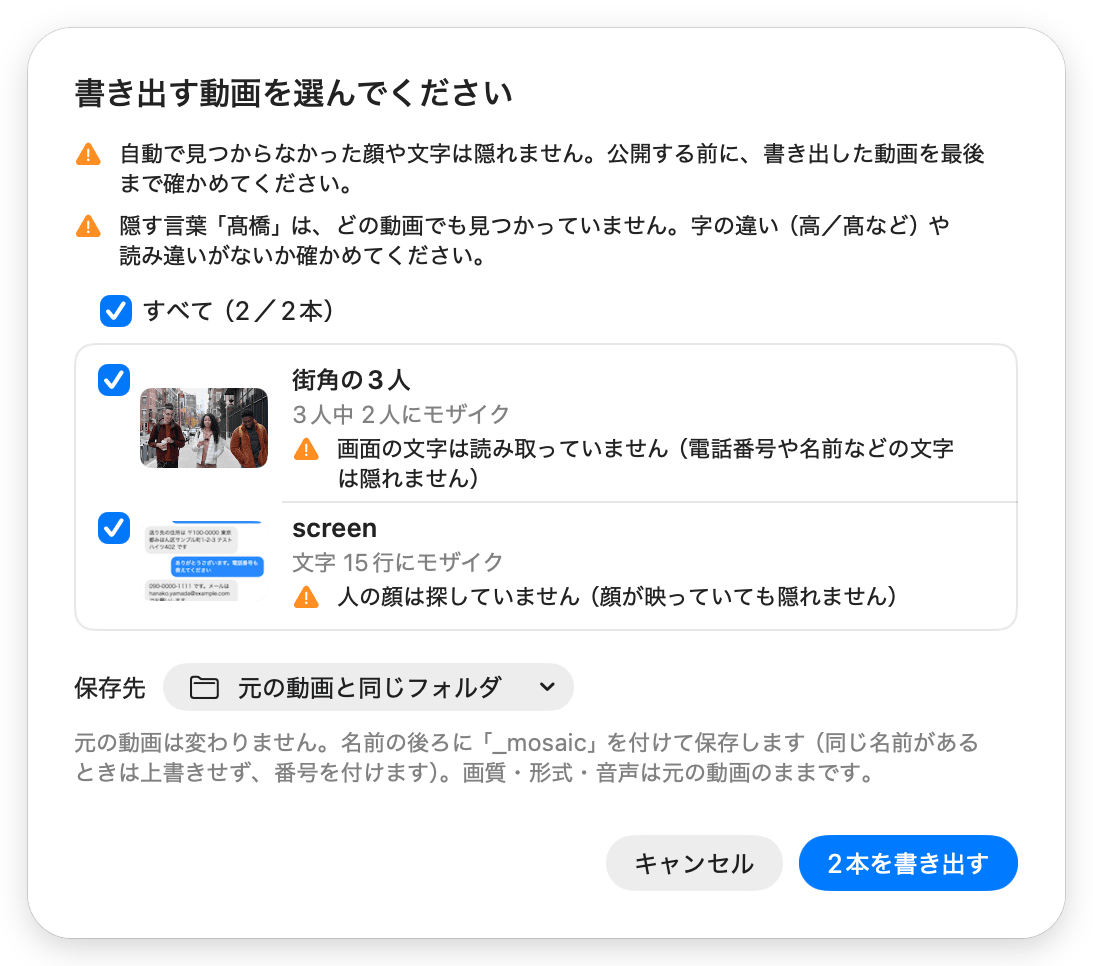
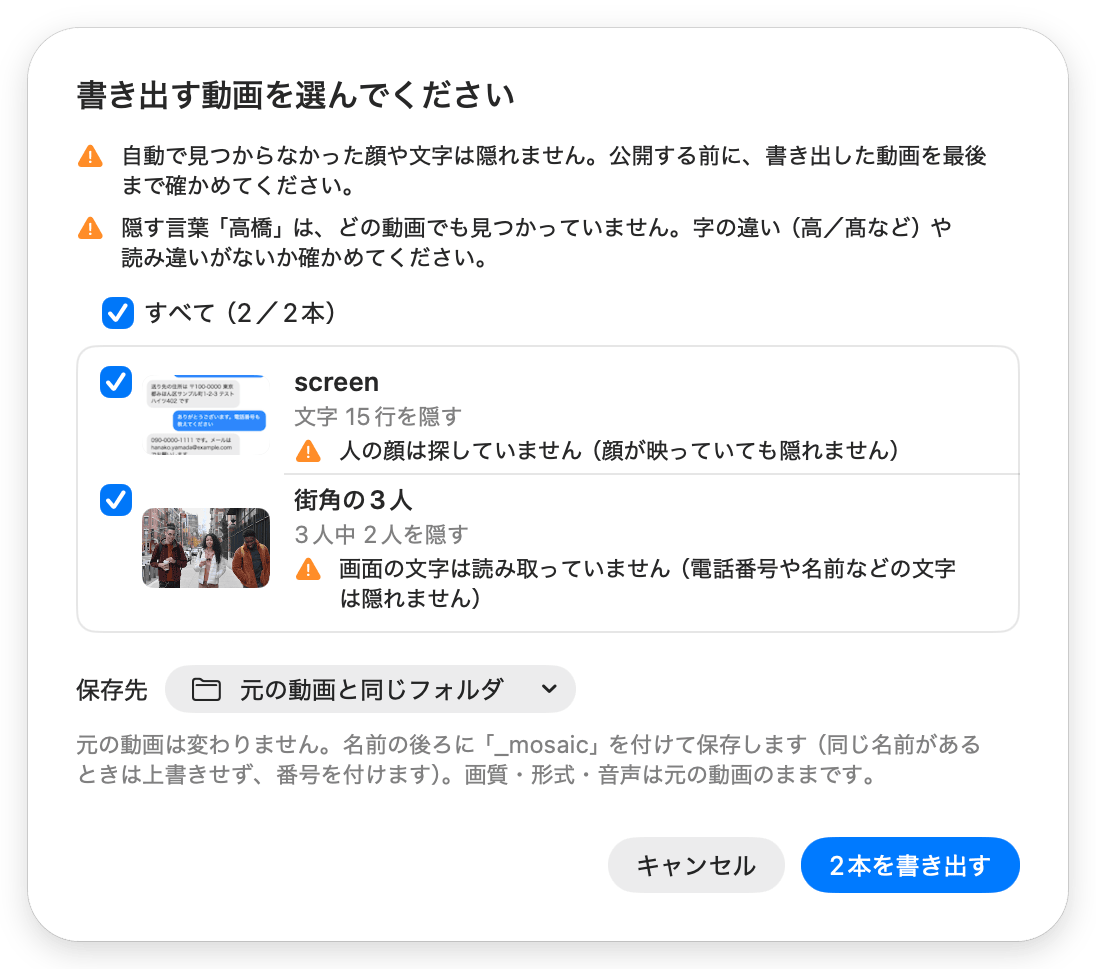
docs(release): v1.2 の準備として README・画面写真・リリースノートを最新にする
README とリリースチェックのレビューで、画面写真が古い表示（「モザイクをかける人」「3人中 2人にモザイク」）のままで、版番号も 1.1 のままだと指摘されたため。

- 版番号を 1.2（CFBundleVersion 3）に上げる
- v1.2 のリリースノートを追加する
- README の app.jpg・export.png・text.png を今の画面で撮り直し、説明文を合わせる（スタンプの例、隠す言葉「高橋」）
- 「画面の文字」の欄とツールチップの表記を「隠す」にそろえ、USAGE・LIMITATIONS・README の該当箇所も合わせる

diff --git a/Sources/WipeMosaicApp/TextInspectorView.swift b/Sources/WipeMosaicApp/TextInspectorView.swift
@@ -54,7 +54,7 @@ struct TextInspectorView: View {
             if let text = video.text, video.textState == .done {
                 if video.textMaskPending {
                     Label {
-                        Text("モザイクを作り直しています…")
+                        Text("隠す範囲を作り直しています…")
                     } icon: {
                         ProgressView().controlSize(.small)
                     }
@@ -94,7 +94,7 @@ struct TextInspectorView: View {
         Section {
             Text(video.textAll
                  ? "この動画は、読み取れた文字をすべて隠しています（下の「この動画だけ」）。"
-                 : "見つかった部分だけにモザイクをかけ、行のほかの文字は残します。外した種類は、ほかの動画でも隠しません。")
+                 : "見つかった部分だけを隠し、行のほかの文字は残します。外した種類は、ほかの動画でも隠しません。")
                 .font(.callout)
                 .foregroundStyle(.secondary)
                 .fixedSize(horizontal: false, vertical: true)
@@ -340,7 +340,7 @@ private struct TextLineRow: View {
                 .toggleStyle(.checkbox)
                 .labelsHidden()
                 .disabled(video.textAll)
-                .help(whole ? "押すと、行全体のモザイクを外します" : "押すと、行全体にモザイクをかけます")
+                .help(whole ? "押すと、行全体を隠すのをやめます" : "押すと、行全体を隠します")
             Button {
                 model.seek(to: text.times[entry.firstFrame])
             } label: {
@@ -363,7 +363,7 @@ private struct TextLineRow: View {
             if whole || partly {
                 Image(systemName: "eye.slash")
                     .foregroundStyle(Color.accentColor)
-                    .help(whole ? "行全体にモザイク" : "一部にモザイク")
+                    .help(whole ? "行全体を隠しています" : "一部を隠しています")
             }
         }
         .padding(.vertical, 2)

diff --git a/Sources/WipeMosaicApp/ContentView.swift b/Sources/WipeMosaicApp/ContentView.swift
@@ -117,7 +117,7 @@ struct ContentView: View {
                     }
                 }
                 .pickerStyle(.segmented)
-                .help("モザイクなし（元の動画）／モザイクあり（いま選んでいるものに、書き出しと同じモザイク）／書き出し結果（書き出したファイル）。⌘1〜⌘3")
+                .help("モザイクなし（元の動画）／モザイクあり（いま選んでいるものを、書き出しと同じように隠した表示）／書き出し結果（書き出したファイル）。⌘1〜⌘3")
             }
         }
         ToolbarSpacer(.flexible)

diff --git a/docs/USAGE.md b/docs/USAGE.md
@@ -4,7 +4,7 @@
 
 ## 操作
 
-1. **動画を追加**：サイドバー上の「＋」（⌘O、何本でもまとめて選べる）、ウインドウか Dock のアイコンへドロップ、ファイル ▸ 最近使った項目を開く、または Finder の「このアプリケーションで開く」（複数可）。動画がないときは、3 つの手順（追加 → 何を隠すか選ぶ → 確かめて書き出す）と「動画を追加…」ボタン、「処理はすべてこのMacの中で行います」の表示が出る。写真（JPEG・HEIC・PNG など）を入れたときは動画として扱わず、顔写真は設定（⌘,）から登録するよう案内する。追加すると「何を隠しますか？」と聞かれる。「人の顔」「画面の文字」「両方」から選ぶと、まとめて追加した動画すべてに使い、選んだものだけを探し始める（Return キーで前回と同じものを選ぶ。「追加しない」で取りやめ。選ぶまで右の欄には「隠すものを選んでください」とだけ出る）。顔は追加した順に 1 本ずつ探す（表示中の動画を優先）。「画面の文字」だけを選んだ動画は顔を探さず、右の一覧も「画面の文字」で開く。あとから「人の顔」の「顔を探す」で顔も探せる。「両方」では顔と文字を同時に探す。一覧の状態は「順番待ち／顔を探しています n%／画面の文字を読み取っています n%／n人中m人・文字 n行を隠す／書き出し済み／開けません」
+1. **動画を追加**：サイドバー上の「＋」（⌘O、何本でもまとめて選べる）、ウインドウか Dock のアイコンへドロップ、ファイル ▸ 最近使った項目を開く、または Finder の「このアプリケーションで開く」（複数可）。動画がないときは、3 つの手順（追加 → 何を隠すか選ぶ → 確かめて書き出す）と「動画を追加…」ボタン、「処理はすべてこのMacの中で行います」の表示が出る。写真（JPEG・HEIC・PNG など）を入れたときは動画として扱わず、顔写真は設定（⌘,）から登録するよう案内する。追加すると「何を隠しますか？」と聞かれる。「人の顔」「画面の文字」「両方」から選ぶと、まとめて追加した動画すべてに使い、選んだものだけを探し始める（Return キーで前回と同じものを選ぶ。「追加しない」で取りやめ。選ぶまで右の欄には「隠すものを選んでください」とだけ出る）。顔は追加した順に 1 本ずつ探す（表示中の動画を優先）。「画面の文字」だけを選んだ動画は顔を探さず、右の一覧も「画面の文字」で開く。あとから「人の顔」の「顔を探す」で顔も探せる。「両方」では顔と文字を同時に探す。一覧の状態は「順番待ち／顔を探しています n%／文字を読み取っています n%／n人中m人・文字 n行を隠す／書き出し済み／開けません」
 2. **隠す人**（右の一覧）：顔を押すと（チェックボックスでも、動画の中の顔でも）その人の顔を隠し、もう一度押すと外れる。名前のあたりを押すと、その人が映る場面を表示する。行の右の ⏭ で、その人が映る次の場面へ進む
    - 選んだ人の行の「隠し方」メニュー：「基本の隠し方（モザイク／ぼかし）」か、スタンプ（顔に重ねる画像）を選ぶ。「画像を選んでスタンプにする…」で PNG・JPEG・HEIC などを選ぶと、その人の顔に重ね、スタンプの一覧に加わる。顔の写真なら写真の顔を動画の顔に合わせ、写真が大きければ顔のまわりだけを使う。同じ人かもしれない人にも同じスタンプが付く。顔を隠しきれる画像なら、検出できた場面ではスタンプの下にモザイクをかけないので、髪型や頭の輪郭はスタンプの周りから見える。顔を見失って位置を推し量っている場面（前後も続ける時間など）と、透明や半透明の部分から顔が透ける・いまの大きさでは顔がはみ出す画像では、スタンプの下にもモザイク（ぼかし）をかける（後者は行と書き出しのシートに、スタンプだけで隠す直し方が出る）。いらなくなったスタンプは、同じメニューの「保存したスタンプを削除」から消せる（確認が出る。使っていた人は基本の隠し方に戻る。設定の「スタンプ」からも消せる）
    - 「全員（m／n人）」で全員をまとめて切り替える（一部だけのときは「−」）。「人物」メニューの「全員にモザイクをかける」（⇧⌘A）・「全員のモザイクを外す」も同じ。通行人が多い動画は、全員を選んでから残したい人だけ外すと早い
@@ -13,9 +13,9 @@
    - 間違えたら ⌘Z で取り消せる（⇧⌘Z でやり直し）
 3. **動画と再生バー**：「モザイクあり」表示では、書き出しと同じモザイクのまま再生できる。再生バーは常に表示され、コマ送りと、選んだ人が映る区間の線（モザイクありはアクセント色）が出る。一時停止中は顔に枠が出る（アクセント色の実線＝モザイクあり、白の点線＝なし）。「画面の文字」では、一時停止中に隠す範囲がオレンジの点線で出る。顔の枠と文字の枠は、右上の「枠を隠す」か ⌘B でまとめて隠せる。表示は「モザイクなし／モザイクあり／書き出し結果」（⌘1〜⌘3）
 4. **隠し方の調整**（一覧の下、開閉できる。すべての動画に共通）：基本の隠し方（モザイク／ぼかし。顔と画面の文字の両方に使う）、モザイクの粗さ・ぼかしの強さ（既定はおまかせ＝長辺÷60。「おまかせ」を外すと 8〜96px で指定。ぼかしも同じ大きさでモザイクにしてからぼかすので、モザイクより読み取りやすくはならない）、スタンプの大きさ（スタンプを使う人がいるときだけ。既定 120%、80〜200%）、顔の前後も続ける時間（既定 1 秒、0〜3 秒）、モザイク（ぼかし）の広さ（45%）。動かすとすぐ「モザイクあり」の表示へ反映される。「画面の文字」の一覧にも「隠し方（すべての動画に共通）」として同じ基本の隠し方と粗さ・強さが出る
-5. **書き出す**：ツールバーの「書き出す…」か ⌘E。本数にかかわらず同じシートが開き、書き出す動画（まだ書き出していない動画にチェック。2 本以上なら「すべて」で一括）と保存先（元の動画と同じフォルダ／ほかのフォルダ）を確かめてから書き出す。名前は「元の名前_mosaic」で、同じ名前があれば上書きせず番号を付ける。顔や文字をまだ探している動画は、終わるまで書き出せない（「両方」を選んだ動画で、片方だけが入った動画にならないように）。シートの上には「自動で見つからなかった顔や文字は隠れません。公開する前に、書き出した動画を最後まで確かめてください。」と出る。動画ごとに、顔が見つかったのに誰も選んでいない（「顔がN人見つかりましたが、誰も選んでいません（顔は隠れません）」）、「自動で隠すもの」で外した種類がある、探すのを中止した・失敗した、、スタンプの画像から顔が透ける・はみ出す（そのときはスタンプの下にもモザイクをかけて書き出す）のような注意が出る。顔か文字の片方だけを選んだ動画は、もう片方について「人の顔は探していません（顔が映っていても隠れません）」のような注意を出す。「隠す言葉」に、どの動画でも見つかっていない言葉があるときも注意が出る。選んでいない似た人がいる動画には注意と「確かめる」（シートを閉じてその動画へ移る）が出る。複数は 1 本ずつ順に書き出し、進捗はサイドバーと一覧に出る。中止すると途中のファイルは消す
+5. **書き出す**：ツールバーの「書き出す…」か ⌘E。本数にかかわらず同じシートが開き、書き出す動画（まだ書き出していない動画にチェック。2 本以上なら「すべて」で一括）と保存先（元の動画と同じフォルダ／ほかのフォルダ）を確かめてから書き出す。名前は「元の名前_mosaic」で、同じ名前があれば上書きせず番号を付ける。顔や文字をまだ探している動画は、終わるまで書き出せない（「両方」を選んだ動画で、片方だけが入った動画にならないように）。シートの上には「自動で見つからなかった顔や文字は隠れません。公開する前に、書き出した動画を最後まで確かめてください。」と出る。動画ごとに、顔が見つかったのに誰も選んでいない（「顔がN人見つかりましたが、誰も選んでいません（顔は隠れません）」）、「自動で隠すもの」で外した種類がある、探すのを中止した・失敗した、スタンプの画像から顔が透ける・はみ出す（そのときはスタンプの下にもモザイクをかけて書き出す）のような注意が出る。顔か文字の片方だけを選んだ動画は、もう片方について「人の顔は探していません（顔が映っていても隠れません）」のような注意を出す。「隠す言葉」に、どの動画でも見つかっていない言葉があるときも注意が出る。選んでいない似た人がいる動画には注意と「確かめる」（シートを閉じてその動画へ移る）が出る。複数は 1 本ずつ順に書き出し、進捗はサイドバーと一覧に出る。中止すると途中のファイルは消す
 6. **結果**：一覧の上に「書き出しました」とファイル名、「再生して確かめる」「Finderで表示」、前後より隠す顔の数が減る「確かめてほしい場面」が出る。書き出した後に人の選択や隠し方（スタンプ・時間・広さ・粗さ・ぼかし・スタンプの大きさ）を変えると「書き出し済み」が外れ、もう一度書き出すよう表示される
-7. **画面の文字**（右の一覧の上で「画面の文字」に切り替える）：iPhone などの画面録画や、画面をカメラで撮った動画に映る文字を隠す。「画面の文字」か「両方」を選んだ動画は、追加すると読み取りを始める（画面が止まっている間は読み取りを省くので、動きの多い動画ほど時間がかかる）。「人の顔」だけを選んだ動画は読み取らず、「画面の文字」に切り替えたときの「この動画の画面の文字を読み取る」で読み取る。設定を変えてモザイクを作り直している間は「モザイクを作り直しています…」と出る。顔のモザイクと一緒に使え、書き出しには両方が入る
+7. **画面の文字**（右の一覧の上で「画面の文字」に切り替える）：iPhone などの画面録画や、画面をカメラで撮った動画に映る文字を隠す。「画面の文字」か「両方」を選んだ動画は、追加すると読み取りを始める（画面が止まっている間は読み取りを省くので、動きの多い動画ほど時間がかかる）。「人の顔」だけを選んだ動画は読み取らず、「画面の文字」に切り替えたときの「この動画の画面の文字を読み取る」で読み取る。設定を変えて隠す範囲を作り直している間は「隠す範囲を作り直しています…」と出る。顔のモザイクと一緒に使え、書き出しには両方が入る
    - **この動画だけ** ▸ **読み取れた文字をすべて隠す**：スマホやパソコンの画面をカメラで撮った動画向け。読み取れた行をすべて隠す。読み取れない瞬間（ブレ・反射・指）も、同じ場所に文字がまた読めれば 6 秒まではモザイクを続ける。動画に入れた字幕や服・看板の文字も隠れる
    - **自動で隠すもの**（すべての動画に共通）：電話番号・カード番号などの数字（6桁以上。A-123456 のような英字付きも）、メールアドレス、URL、住所・郵便番号、人の名前（よくある名字に、名前（漢字・カタカナ・ひらがな）や「さん・様・くん・ちゃん・氏・先生」「です」が続く形と、名字だけの行。一覧にない名字は、漢字 2〜6 文字（とその後の名前）に「さん・様・くん・ちゃん・先生・氏」や決まった肩書き・呼び方（部長・課長・社長・先輩・監督・ママなど）が続く形。森・林など 1 文字の名字は、「さん」や肩書き・空白が続くときか、行が名前だけ（「林健一」）のとき。名前を残さないよう、社名や「患者さん」「山田太郎部長」の「部」、「金曜日」だけの行のような言葉も隠れることがある）。種類ごとに、この動画で見つかった行数が右に出る。説明の続きは、項目にポインタを重ねると出る。外した種類はほかの動画でも隠さない。見つかった部分だけを隠し、行のほかの文字は残す。住所は見つかった所から行の終わりまでと、すぐ下に続く行（建物名・部屋番号）も隠す。途中で折り返したメールアドレス・URL・電話番号などの数字（「sato.ichi」／「ro@example.jp」、「example」／「.com/yamada」、「080-0000-」／「2222」、「090 12」／「34 5678」など）は、上の行の終わりと下の行の始めの英数字・記号を隠す
    - **隠す言葉**（すべての動画に共通）：「＋ 言葉を追加」で欄を増やして、名前やアカウント名などを入れる（Return で確定すると次の空欄が出るので、続けて入れられる。Return を押さずにほかの欄やタブへ移ったとき、書き出すときも確定する。入れた言葉はその場で書き直せ、⊗ か、空にして Return で消える。空にしただけで欄を離れたときは、元の言葉のまま残す）。画面のどこに出てもその言葉の部分を隠す。空白の有無、大文字・小文字、全角・半角は区別しない。言葉のすぐ後に漢字かカタカナが続くとき（「鈴木 次郎」の「次郎」）は、4 文字までそれも隠す。入れた言葉の下に「この動画でN行」と出る（ほかの動画でだけ見つかったときは「この動画にはありません（ほかの動画でN行）」）。どの動画でも見つからないときはオレンジで「…見つかりませんでした。…」と出るので、字の違い（高／髙など）や読み違いがないか、下の一覧で確かめる

diff --git a/.github/release-notes/v1.2.md b/.github/release-notes/v1.2.md
@@ -1,0 +1,24 @@
+隠し方に**ぼかし**が、顔には**スタンプ**（好きな画像を重ねる）が加わりました。
+
+## 新しくできること
+
+- **ぼかし**：「隠し方の調整」の「基本の隠し方」で、モザイクとぼかしを切り替えられます。顔と画面の文字の両方に使います。ぼかしは同じ大きさのモザイクにしてからぼかすので、同じ強さならモザイクより読み取りやすくはなりません
+- **スタンプ**：隠す人ごとに、好きな画像（自分の顔の切り抜き、イラストなど）を顔に重ねられます。人の行の「隠し方」メニューから画像を選びます。顔の写真なら、写真の顔を動画の顔に合わせて重ねます
+  - 背景を透明にした切り抜き画像がおすすめです。スタンプの周りから、髪型や頭の輪郭は見えます
+  - 画像から顔が透ける・はみ出すときや、顔を見失って位置を推し量っている場面では、スタンプの下にもモザイク（ぼかし）をかけます
+  - 「スタンプの大きさ」で大きさを変えられます。いらなくなったスタンプは、同じメニューの「保存したスタンプを削除」か、設定の「スタンプ」から消せます
+- **再生しても揺れにくく**：顔の枠の動きをなめらかにして、スタンプ・ぼかし・モザイクが再生中に揺れにくくしました
+
+## 変わったこと
+
+- 人の一覧・画面の文字・書き出しの表示を「モザイクをかける」から「隠す」にそろえました（ぼかしやスタンプでも同じ意味になるように）。表示の切り替え「モザイクなし／モザイクあり」と「人物」メニューの名前はそのままです
+
+## ダウンロードと開き方
+
+1. 下の **Mozaipoon.zip** をダウンロードして開き、「モザイぷーん」を「アプリケーション」フォルダへ移す（前の版があれば置き換えます）
+2. 初めて開くときは「開いていません」という表示が出ます（Apple の公証を受けていないため）。表示は閉じてください
+3. 「システム設定」▸「プライバシーとセキュリティ」の下の方にある「このまま開く」を押すと開けます。2 回目からはふつうに開けます
+
+- 動作環境：macOS 26 以降。Apple シリコンと Intel の両方に対応（Intel の Mac での動作はまだ確かめていません）
+- 処理はすべてこの Mac の中で行い、動画や顔・文字・スタンプの画像はどこにも送信しません
+- 自動で見つからなかった顔や文字は隠れません。公開する前に、書き出した動画を必ず最後まで見て確かめてください。苦手なものは [隠せるもの・隠せないもの](https://github.com/mhimt-lab/mozaipoon/blob/main/docs/LIMITATIONS.md) にまとめています

diff --git a/docs/LIMITATIONS.md b/docs/LIMITATIONS.md
@@ -10,7 +10,7 @@
 - 次の顔は見落とすことがあります：最初から横顔のまま登場した顔、マスクをした顔、とても小さい顔
 - 同じ人が 2 人に分かれて一覧に出ることがあります。一覧の顔はすべて確かめてください
 - 登録した顔写真との照合は目安です。最初からチェックが入った人も、入っていない人も確かめてください
-- スタンプ（顔に重ねる画像）は顔を覆うだけです。髪型・頭の輪郭・耳・体はスタンプの周りから見えます。画像の透明・半透明の部分から顔が透けるときや、顔がはみ出すときは、スタンプの下にもモザイク（ぼかし）をかけます
+- スタンプ（顔に重ねる画像）は顔を覆うだけです。髪型・頭の輪郭・耳・体はスタンプの周りから見えます。画像の透明・半透明の部分から顔が透けるときや顔がはみ出すとき、顔を見失って位置を推し量っている場面では、スタンプの下にもモザイク（ぼかし）をかけます
 - ぼかしは、同じ大きさのモザイクにしてからぼかします。「強さ」を弱くすると、顔の形や文字が分かることがあります
 
 ## 人の名前（画面の文字）
